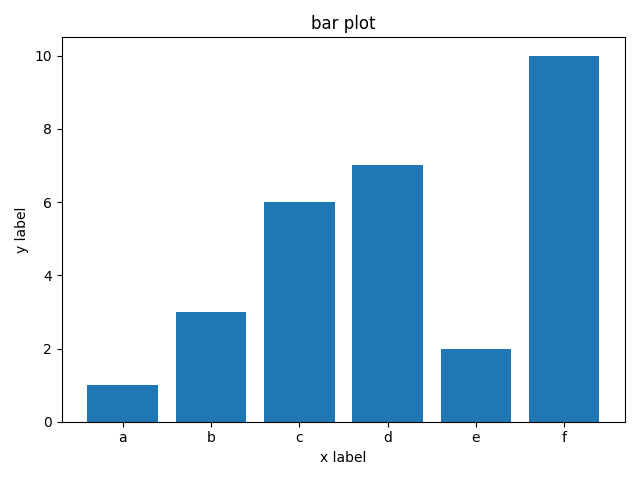
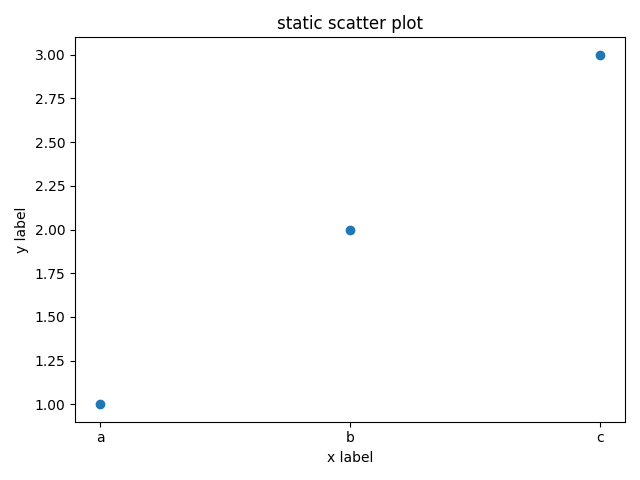
add all static plot in basic stage

diff --git a/data_visualization_project/visualization_app/plot.py b/data_visualization_project/visualization_app/plot.py
@@ -1,0 +1,76 @@
+import matplotlib.pyplot as plt
+import os
+import glob
+
+baseDir = os.path.join(os.path.dirname(os.path.dirname(__file__)),'static')
+baseDir = os.path.join(baseDir,'plots')
+
+def static_bar_plot(x,y):
+    # for root, dirs, files in os.walk(baseDir):
+    #     for file in files:
+    #         os.remove(os.path.join(root, file))
+    x = x.split(',')
+    y = y.split(',')
+    y = [float(i) for i in y]
+
+    fig = plt.figure()
+    plt.bar(x,y)
+    plt.title('static bar plot')
+    plt.xlabel('x label')
+    plt.ylabel('y label')
+    plt.tight_layout()
+    plt.savefig(os.path.join(baseDir,'tmp.png'))
+    
+def static_scatter_plot(x,y):
+    # for root, dirs, files in os.walk(baseDir):
+    #     for file in files:
+    #         os.remove(os.path.join(root, file))
+    x = x.split(',')
+    y = y.split(',')
+    y = [float(i) for i in y]
+
+    fig = plt.figure()
+    plt.scatter(x,y)
+    plt.title('static scatter plot')
+    plt.xlabel('x label')
+    plt.ylabel('y label')
+    plt.tight_layout()
+    plt.savefig(os.path.join(baseDir,'tmp.png'))
+
+def static_line_plot(x,y):
+    # for root, dirs, files in os.walk(baseDir):
+    #     for file in files:
+    #         os.remove(os.path.join(root, file))
+    x = x.split(',')
+    y = y.split(',')
+    y = [float(i) for i in y]
+
+    fig = plt.figure()
+    plt.plot(x,y)
+    plt.title('static line plot')
+    plt.xlabel('x label')
+    plt.ylabel('y label')
+    plt.tight_layout()
+    plt.savefig(os.path.join(baseDir,'tmp.png'))
+
+def static_pie_plot(x,y):
+    # for root, dirs, files in os.walk(baseDir):
+    #     for file in files:
+    #         os.remove(os.path.join(root, file))
+    x = x.split(',')
+    y = y.split(',')
+    y = [float(i) for i in y]
+
+    fig = plt.figure()
+    plt.pie(y, labels=x,autopct='%1.1f%%')
+    plt.title('static pie plot')
+    plt.tight_layout()
+    plt.savefig(os.path.join(baseDir,'tmp.png'))
+
+def delete_file():
+    files = os.listdir(baseDir)
+    print(baseDir)
+    print(files)
+    for file in files:
+        os.remove(os.path.join(baseDir,file))
+        print(file)

diff --git a/data_visualization_project/visualization_app/views.py b/data_visualization_project/visualization_app/views.py
@@ -1,11 +1,12 @@
 from django.shortcuts import render
 from django.http import HttpResponse
 
-from .static import bar_plot
+from .plot import *
 
 # Create your views here.
 
 def index(request):
+    delete_file()
     return render(request, 'index.html')
 
 def interactive_plot(request):
@@ -15,5 +16,12 @@ def interactive_plot(request):
 def static_plot(request):
     if request.method == 'POST':
         # print(request.POST['plot-type'])
-        bar_plot(request.POST['x-static'],request.POST['y-static'])
+        if request.POST['plot-type'] == 'Bar Plot':
+            static_bar_plot(request.POST['x-static'],request.POST['y-static'])
+        elif request.POST['plot-type'] == 'Scatter Plot':
+            static_scatter_plot(request.POST['x-static'],request.POST['y-static'])
+        elif request.POST['plot-type'] == 'Line Plot':
+            static_line_plot(request.POST['x-static'],request.POST['y-static'])
+        else:
+            static_pie_plot(request.POST['x-static'],request.POST['y-static'])
     return render(request, 'visualization/static_plot.html')
